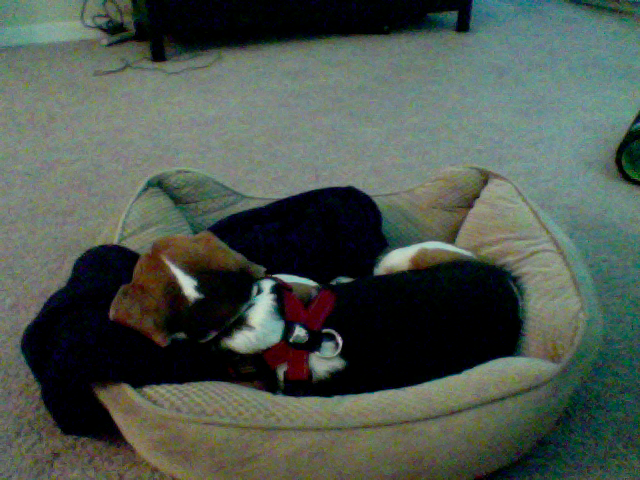
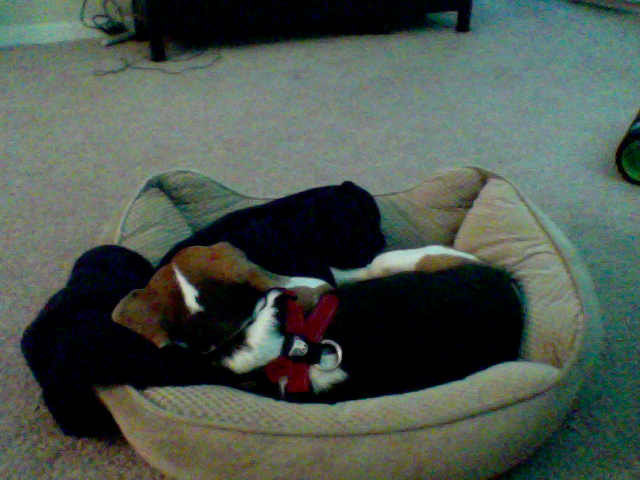
update at Month05Day13Time08:55

diff --git a/index.html b/index.html
@@ -39,8 +39,8 @@
       <!-- Example row of columns -->
       <div class="row">
         <div class="col-md-4">
-	<p>This picture was updated at Month05Day13Time08:54</p>
-		<img src="3_pic.png" />
+	<p>This picture was updated at Month05Day13Time08:55</p>
+		<img src="2_pic.png" />
         </div>
       </div>
 
